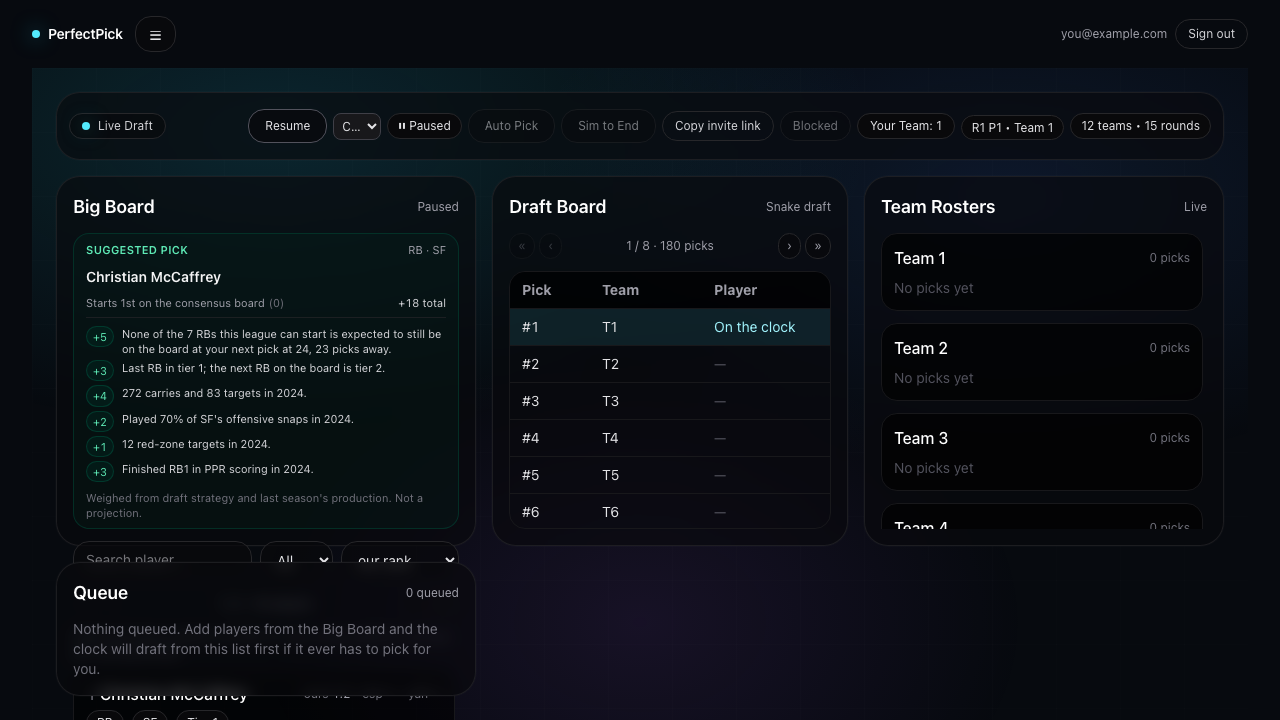
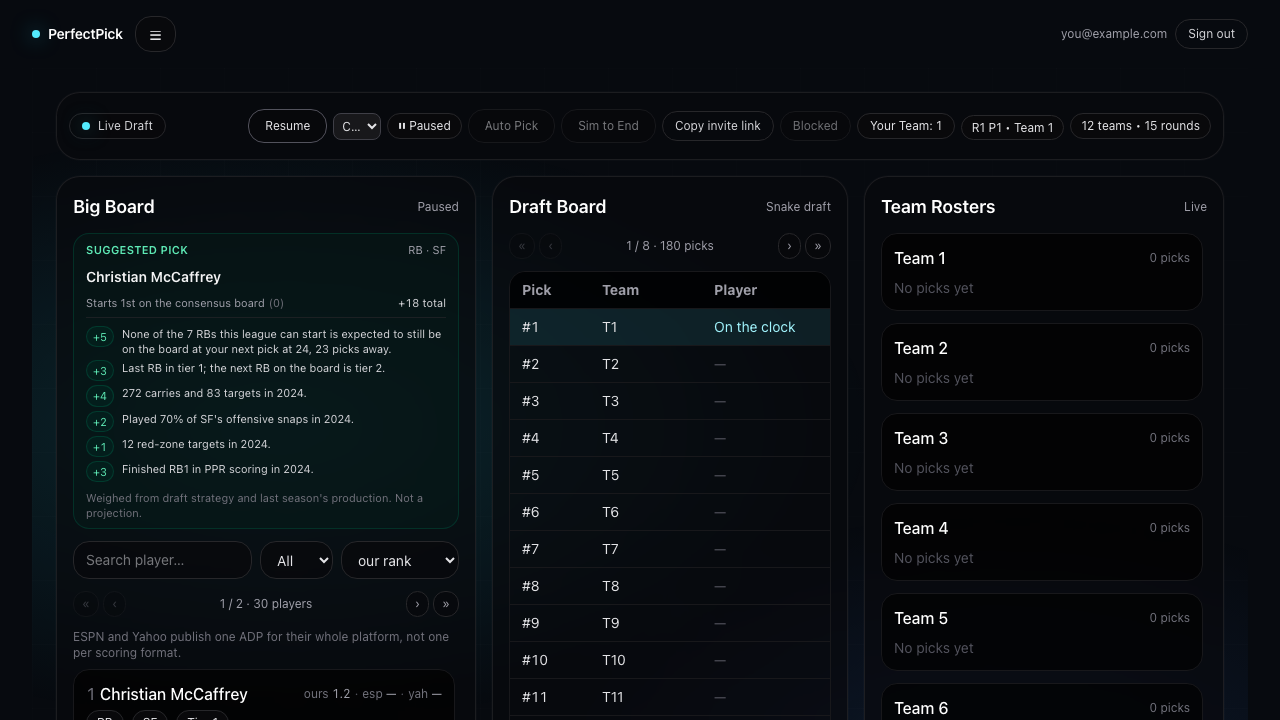
test: a drag must scroll its target into view first
Below 3xl the queue sits under the three columns on a page that scrolls, so
at the suite's own 1280px width it starts below the fold -- boundingBox then
hands back coordinates the mouse cannot reach and the drag silently does
nothing. A consequence of moving the page's height binding to match the
fourth column's breakpoint, not a defect in the feature.

Also refreshes the two screenshots the layout fix changed.

diff --git a/frontend/tests/queue.spec.js b/frontend/tests/queue.spec.js
@@ -124,6 +124,12 @@ test("an empty queue renders its explanatory text, not a blank box", async ({ pa
 // against a real gesture, not just a click. `dragRow` mirrors board.spec.js's
 // own helper: mouse down on the row body, move past a sibling, mouse up.
 async function dragRow(page, locator, dy) {
+  // Below 3xl the queue sits under the three columns on a page that scrolls,
+  // so at the suite's own 1280px width it starts below the fold. boundingBox
+  // would then hand back coordinates the mouse cannot reach, and the drag
+  // would silently do nothing -- which is exactly how this failed when the
+  // page's height binding moved to match the fourth column's breakpoint.
+  await locator.scrollIntoViewIfNeeded();
   const box = await locator.boundingBox();
   await page.mouse.move(box.x + box.width / 2, box.y + box.height / 2);
   await page.mouse.down();
